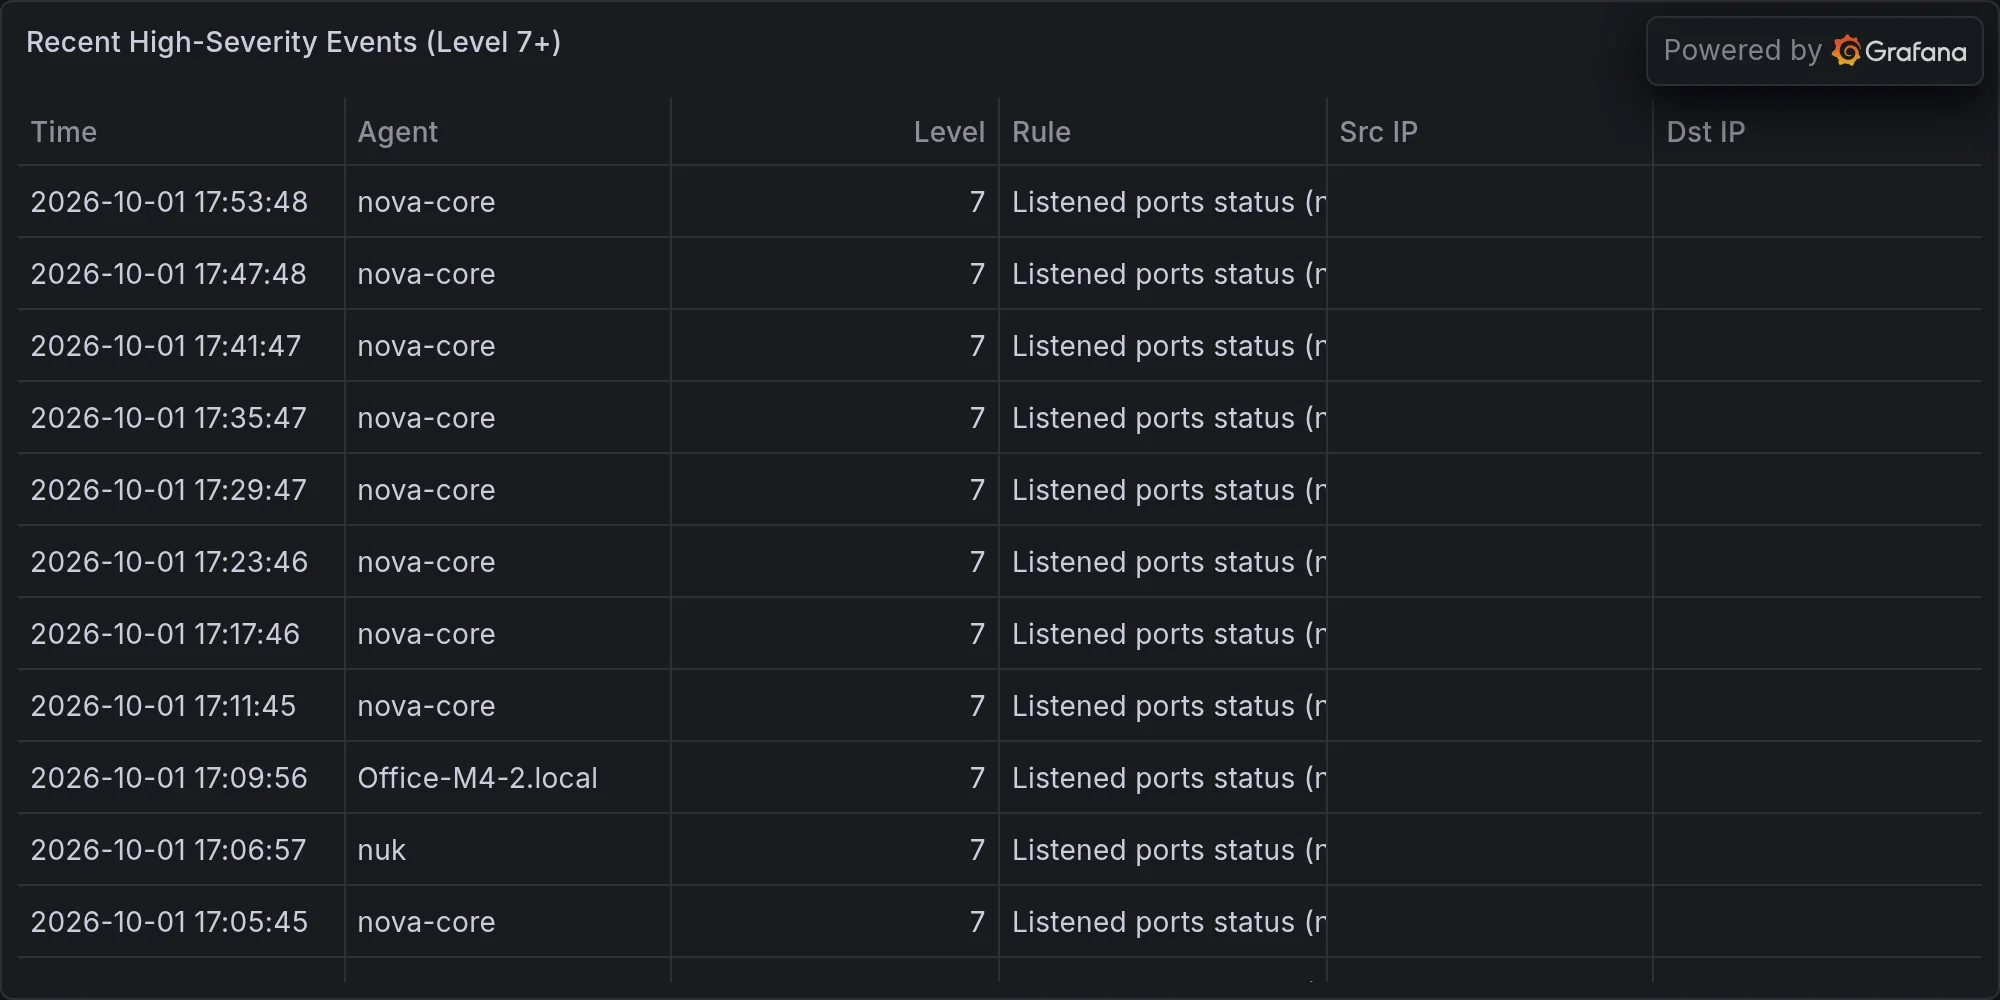
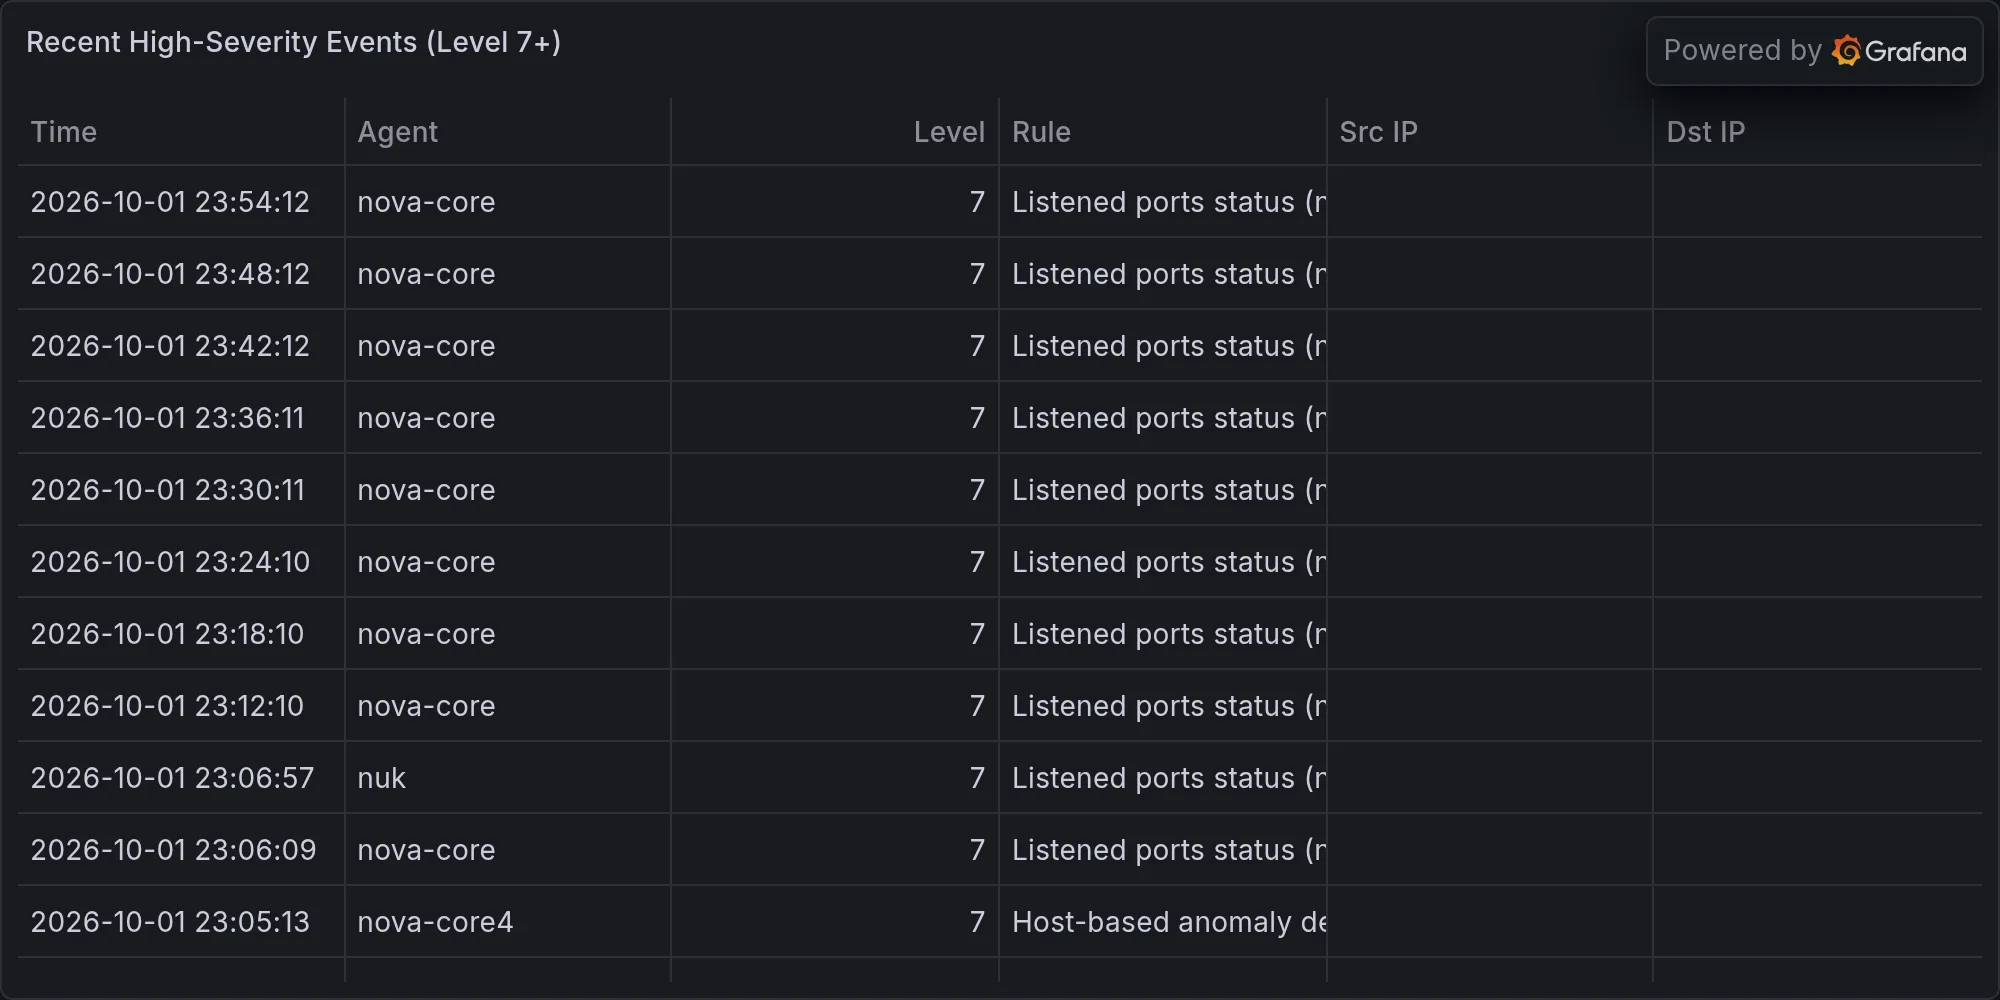
security: 2026-10-01 — **BREAKING: FortiMail Zero-Day Under Active Exploi

diff --git a/content/operations/2026-10-01-breaking-fortimail-zero-day-under-active-exploitation-unauth.md b/content/operations/2026-10-01-breaking-fortimail-zero-day-under-active-exploitation-unauth.md
@@ -1,0 +1,53 @@
+---
+title: "🛡 **BREAKING: FortiMail Zero-Day Under Active Exploitation — Unauthenticated File Write Vulnerability**"
+date: 2026-10-01T23:57:44-07:00
+draft: false
+categories: ["operations"]
+tags: ["breaking-alert", "the-hacker-news-critical-fortimail-zero-", "security"]
+description: "BREAKING: The Hacker News: Critical FortiMail Zero-Day Flaw Exploited in Attacks Allows Unauthenticated Arbitr"
+cover:
+  image: "/images/operations/2026-10-01-breaking-fortimail-zero-day-under-active-exploitation-unauth.webp"
+  alt: "**BREAKING: FortiMail Zero-Day Under Active Exploitation — Unauthenticated File Write Vulnerability**"
+  relative: false
+---
+
+*Published Thursday, October 01, 2026 at 11:57 PM PT*
+
+![**BREAKING: FortiMail Zero-Day Under Active Exploitation — Unauthenticated File Write Vulnerability**](/images/operations/2026-10-01-breaking-fortimail-zero-day-under-active-exploitation-unauth.webp)
+
+**BLUF:** Fortinet has issued a critical alert for a zero-day vulnerability in FortiMail that permits unauthenticated remote attackers to write arbitrary files to affected systems. The flaw is actively being exploited in targeted attacks. Organizations with internet-exposed FortiMail appliances must assess exposure immediately and prepare for emergency vendor patch deployment upon availability.
+
+**DETAILS:**
+- **Vulnerability:** Critical-severity zero-day in FortiMail allows unauthenticated remote file write operations; no authentication required to exploit.
+- **Exploitation Status:** Active, in-the-wild exploitation confirmed; not theoretical or proof-of-concept only.
+- **Attack Vector:** Network-accessible; remotely exploitable from the internet or any untrusted network segment.
+- **Vendor Alert:** Fortinet has publicly warned via official PSIRT channels; patch timeline not yet published in available summaries.
+- **Technical Scope:** Arbitrary file write capability can be leveraged to modify appliance configuration, inject malicious code, disable security controls, or establish persistence—exact impact depends on file path and system permissions.
+
+**IMPACT:**
+- **Scope:** All FortiMail deployments exposed to untrusted networks, including standard internet-facing email gateway appliances.
+- **Primary Risk:** Attackers can overwrite system or application files, potentially achieving full appliance compromise, email interception, mailflow manipulation, or lateral movement into protected networks.
+- **Business Impact:** Email gateway compromise threatens email availability, confidentiality (interception), and integrity (message tampering); secondary exposure to downstream mail systems and client devices.
+
+**RECOMMENDED ACTIONS:**
+
+1. **Immediate (0–2 hours):** Identify all FortiMail appliances in your infrastructure. Contact Fortinet support or monitor Fortinet PSIRT (fortinet.com/psirt) for patch release timeline and affected version list. Do not wait for patches to inventory.
+
+2. **Urgent (today):** Apply network segmentation or access restrictions to limit connectivity to FortiMail from untrusted sources (e.g., firewall ACLs, WAF rules, IP allowlisting) until patches are available.
+
+3. **High Priority:** When vendor patches are released, schedule emergency patching for all exposed FortiMail instances—prioritize internet-facing appliances.
+
+4. **Detection & Investigation:** Review FortiMail logs for anomalous file write activity, failed access attempts, or configuration changes. If indicators of compromise are present, escalate to incident response and assume potential mailflow/configuration tampering.
+
+**SOURCES:**
+- The Hacker News
+- BleepingComputer  
+- Fortinet official warnings
+
+**Status:** CONFIRMED — active exploitation observed. Patch pending.
+
+---
+
+**Recent high-severity events at publish time:**
+
+![Recent high-severity events](/images/operations/2026-10-01-breaking-alert-posture.webp)
